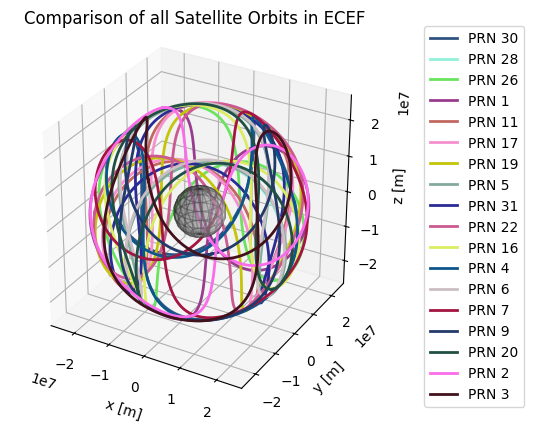
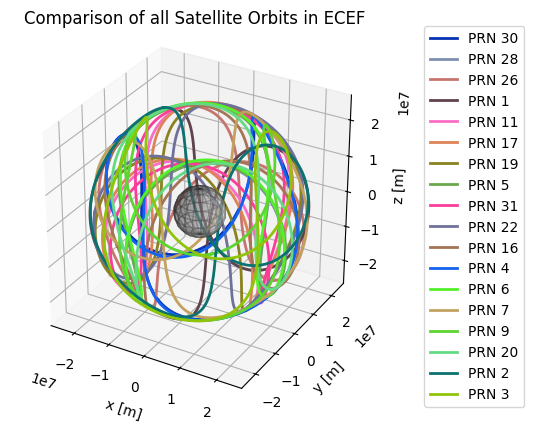
kleine änderungen bei plots (vor allem skyplots)

diff --git a/function.py b/function.py
@@ -5,6 +5,7 @@ import cartopy.crs as ccrs
 from itertools import cycle
 
 
+
 def read_data(pos_filename):
     """
       Function to read in satellite position data
@@ -503,7 +504,7 @@ def exclude_sats(data, exclude_sat_list=[]):
     return removed_data
 
 
-def plot_skyplots(pos_ecef, obs_xyz, elevation_angle, place_name, exclude_sat_list=None):
+def plot_skyplots(pos_ecef, minute_range, obs_xyz, elevation_angle, place_name, exclude_sat_list=None):
   '''
   Create skyplots of the visible satellites at a given position for a given elevation mask
   Args:
@@ -516,8 +517,8 @@ def plot_skyplots(pos_ecef, obs_xyz, elevation_angle, place_name, exclude_sat_li
         Skyplot of the receiver position
   '''
   R = create_rotation_matrix(obs_xyz)
-
-  dx_vis, dy_vis, dz_vis, prns_vis = find_visible_sats(pos_ecef, obs_xyz, R, elevation_angle)
+  pos_ecef_timemask = time_mask(pos_ecef, minute_range)
+  dx_vis, dy_vis, dz_vis, prns_vis = find_visible_sats(pos_ecef_timemask, obs_xyz, R, elevation_angle)
 
   dX_local = np.vstack([dx_vis, dy_vis, dz_vis])
   dX_ll = R.T @ dX_local
@@ -542,12 +543,18 @@ def plot_skyplots(pos_ecef, obs_xyz, elevation_angle, place_name, exclude_sat_li
     if exclude_sat_list else ""
   )
   exclude_str_filename = f"-excl{''.join(f'-{sat}' for sat in exclude_sat_list)}" if exclude_sat_list else ""
-
+  time_range_title = (
+    f"(Time range: {'-'.join(f'{min}' for min in minute_range)} min)"
+    if exclude_sat_list else ""
+  )
   fig, ax = plt.subplots(subplot_kw={'projection': 'polar'}, figsize=(6, 6))
   fig.subplots_adjust(right=0.70)
+  cmap = plt.get_cmap("tab20")
+  color_cycle = cycle(cmap.colors)
+
   for prn in np.unique(prns_vis):
     mask = prns_vis == prn
-    ax.scatter(theta[mask], r[mask], s=0.5, label=f'PRN {prn}')
+    ax.scatter(theta[mask], r[mask], s=0.5, label=f'PRN {prn}', color=next(color_cycle))
 
     ax.set_theta_zero_location('N')
     ax.set_theta_direction(-1)
@@ -558,10 +565,10 @@ def plot_skyplots(pos_ecef, obs_xyz, elevation_angle, place_name, exclude_sat_li
     ax.set_thetagrids([0, 30, 60, 90, 120, 150, 180, 210, 240, 270, 300, 330], labels=['0°', '30°', '60°', '90°', '120°', '150°', '180°', '210°', '240°', '270°', '300°', '330°'])
     ax.set_rlim(0, 90)
     ax.grid(True)
-    ax.legend(loc='center right', bbox_to_anchor=(1.45, 0.5), fontsize=9)
-  plt.suptitle(f'Skyplot {place_name}', fontsize=16, y=0.94)
+    ax.legend(loc='center right', bbox_to_anchor=(1.45, 0.5), fontsize=9, markerscale=7)
+  plt.suptitle(f'Skyplot {place_name} {time_range_title}', fontsize=16, y=0.94)
   plt.title(f'Elevation Mask: {elevation_angle}°{exclude_str_title}', fontsize=11, x=0.65, pad=15)
-  plt.savefig(f"Results/{place_name}-skyplot-{elevation_angle}{exclude_str_filename}")
+  plt.savefig(f"Results/{place_name}-skyplot-{elevation_angle}{exclude_str_filename}", bbox_inches="tight")
   #plt.show()
   plt.close()
 

diff --git a/main.py b/main.py
@@ -11,7 +11,7 @@ bodo_xyz = pd.Series([2392289, 613884, 5860822], index=['X', 'Y', 'Z']) # Coordi
 # Elevation angles for elevation masks
 elevation_angles = [0, 5, 10, 15]
 # List of satellites to be excluded
-exclude_sat_list = [26, 1, 11]
+exclude_sat_list = [1, 2, 3, 4, 7, 30]
 
 # Read in data
 pos_ECEF = f.read_data("pos_ECEF.txt")
@@ -55,7 +55,6 @@ f.plot_groundtrack(gps1_array, 1)
 f.plot_groundtrack(gps30_array, 30)
 
 
-
 # Plot Number of Satellites and PDOP for different elevation angles in Graz and Bodo (individually)
 print("Generating plots for nr. of visible satellites and DOP timeseries...")
 
@@ -72,11 +71,13 @@ for elevation_angle in elevation_angles:
     f.plot_dop_timeseries(pos_ECEF_excluded_sats, minute_range, bodo_xyz, elevation_angle, 'Bodo-Norway', 'PDOP', exclude_sat_list)
 
     # Plot skyplots
-    f.plot_skyplots(pos_ECEF, graz_xyz, elevation_angle, 'Graz-Austria')
-    f.plot_skyplots(pos_ECEF, bodo_xyz, elevation_angle, 'Bodo-Norway')
+    f.plot_skyplots(pos_ECEF, minute_range, graz_xyz, elevation_angle, 'Graz-Austria')
+    f.plot_skyplots(pos_ECEF, minute_range, bodo_xyz, elevation_angle, 'Bodo-Norway')
+
     # Skyplots with excluded sats
-    f.plot_skyplots(pos_ECEF_excluded_sats, graz_xyz, elevation_angle, 'Graz-Austria', exclude_sat_list)
-    f.plot_skyplots(pos_ECEF_excluded_sats, bodo_xyz, elevation_angle, 'Bodo-Norway', exclude_sat_list)
+    f.plot_skyplots(pos_ECEF_excluded_sats, minute_range, graz_xyz, elevation_angle, 'Graz-Austria', exclude_sat_list)
+    f.plot_skyplots(pos_ECEF_excluded_sats, minute_range, bodo_xyz, elevation_angle, 'Bodo-Norway', exclude_sat_list)
+
 
 # Plot Number of Satellites for different elevation angles in Graz (comparison)
 f.plot_nr_sats_comparison(pos_ECEF, minute_range, graz_xyz, elevation_angles, 'Graz-Austria')
